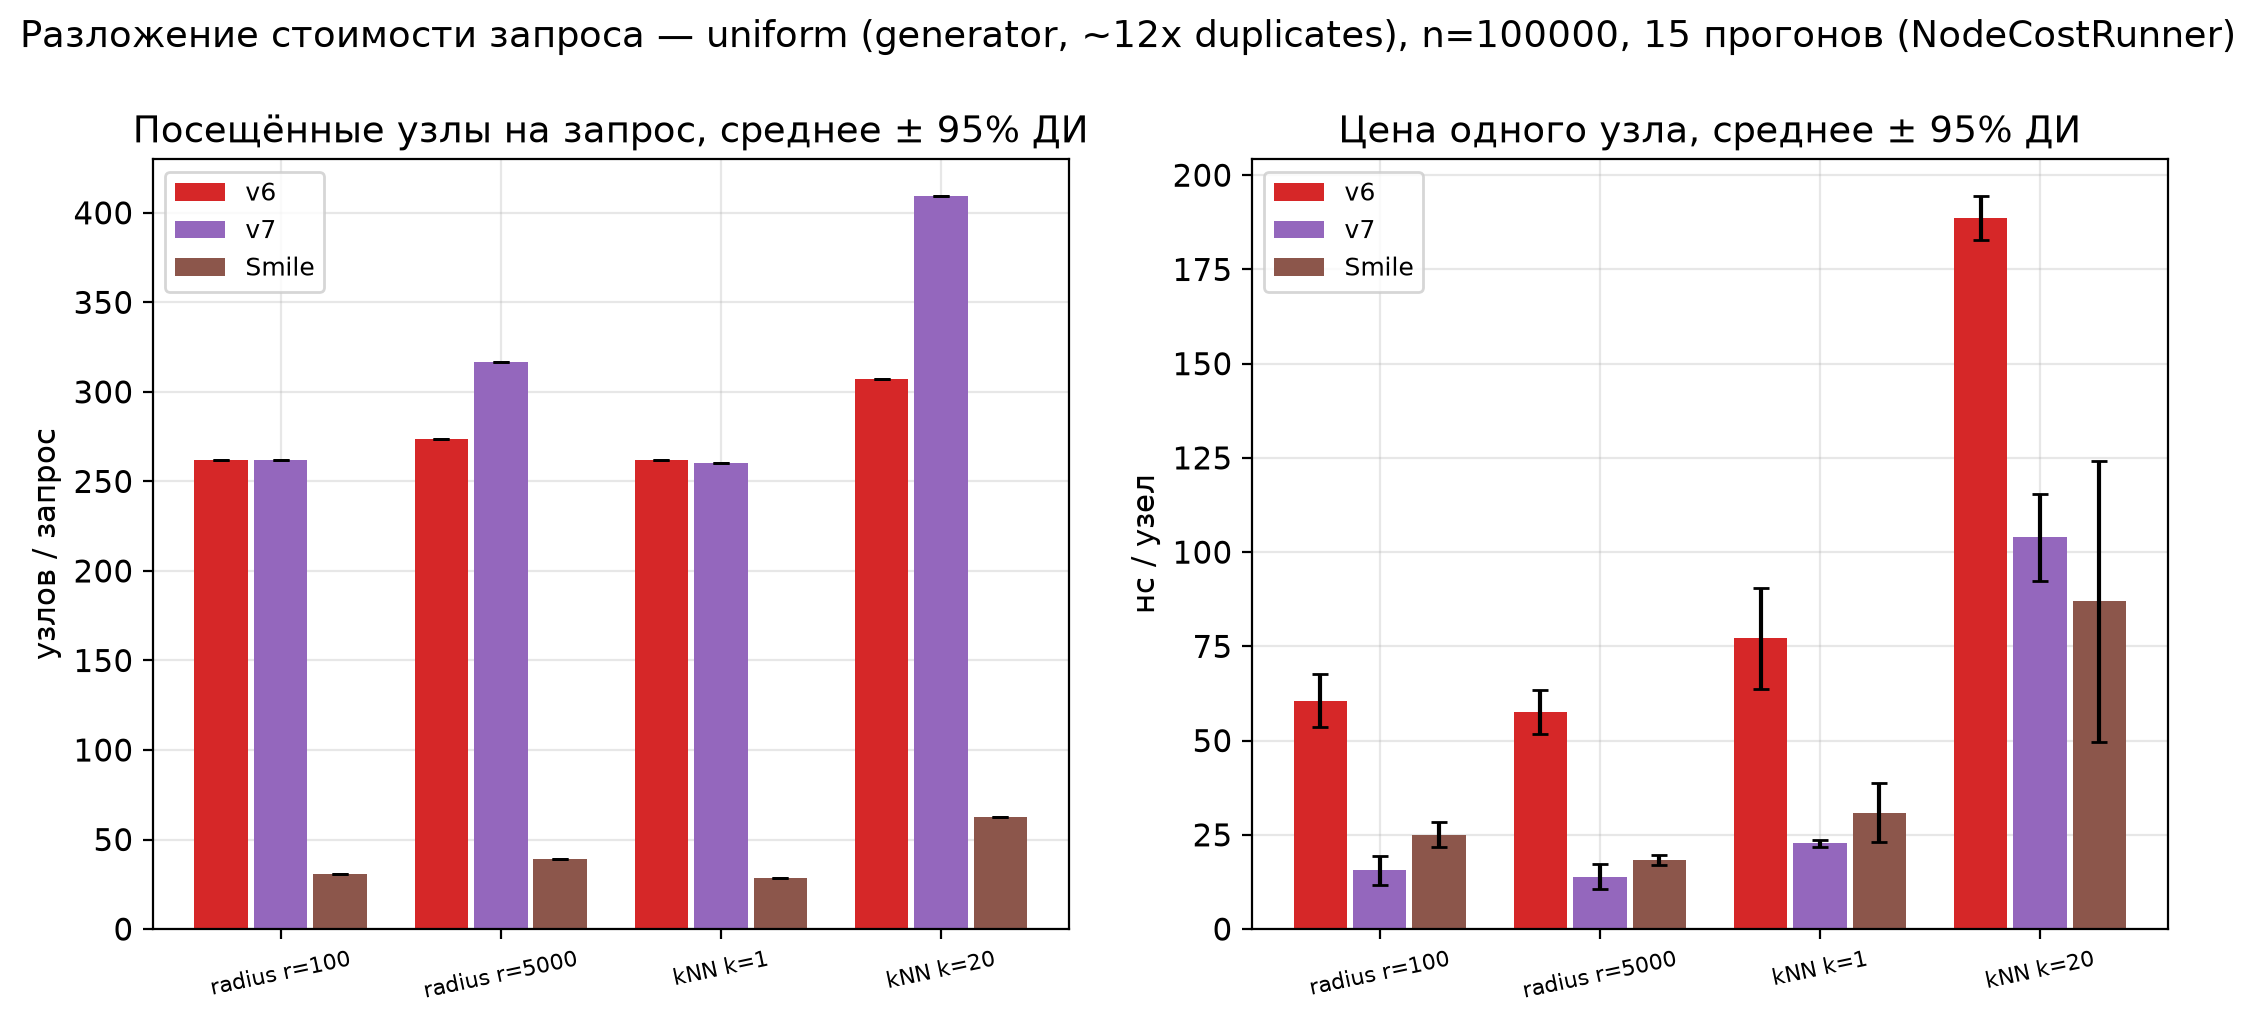
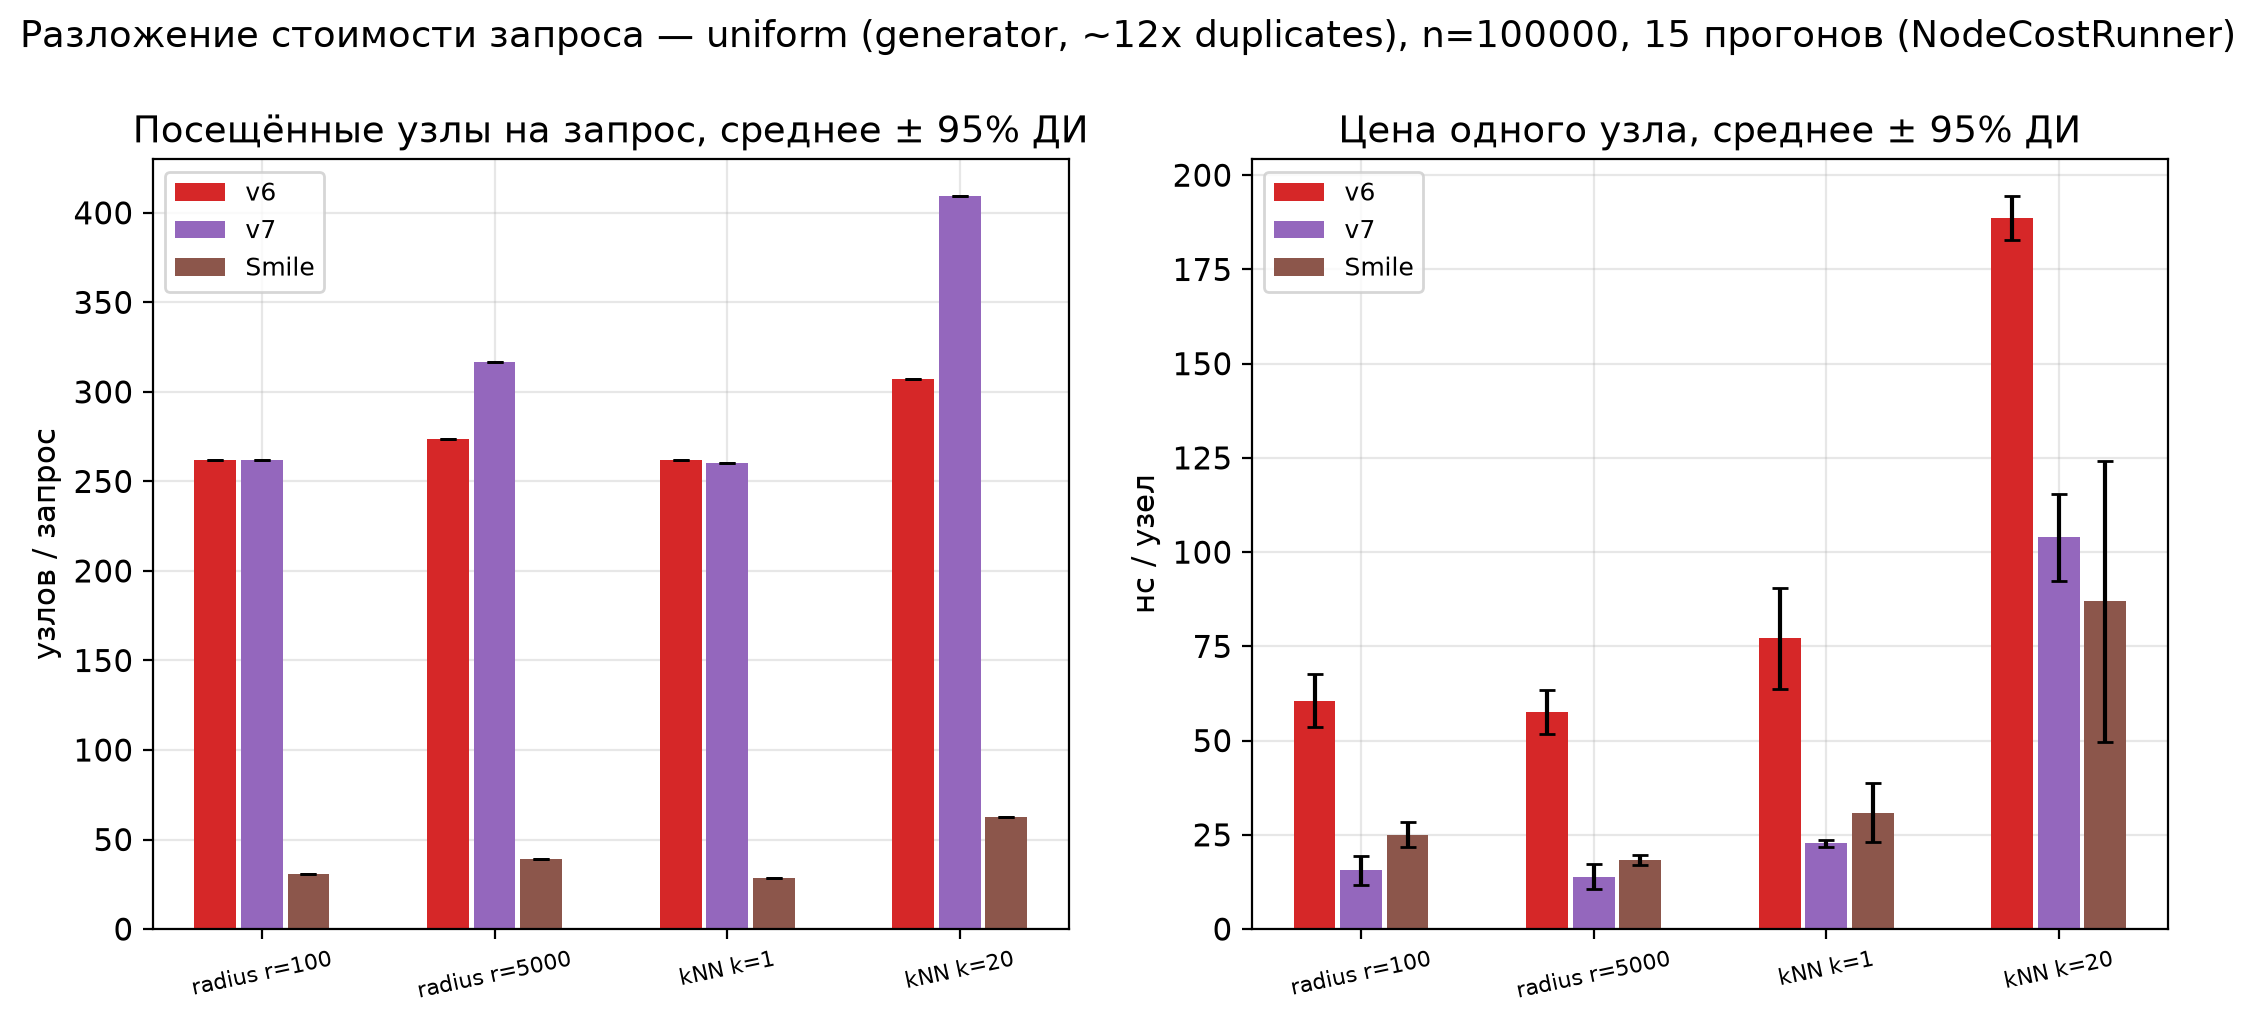
docs: h3 iteration two results

diff --git a/lab-1-java-geo-kdtree/tools/make_ecef_charts.py b/lab-1-java-geo-kdtree/tools/make_ecef_charts.py
@@ -171,15 +171,19 @@ def chart_nodecost():
         width = 0.2
 
         fig, axes = plt.subplots(1, 2, figsize=(13, 5))
+        present = [i for i in IMPLS if (dataset, queries[0], i.lower()) in groups]
+        slot = {impl: i for i, impl in enumerate(present)}
         for ax, metric, ylabel, title in (
             (axes[0], "nodes", "узлов / запрос", "Посещённые узлы на запрос, среднее ± 95% ДИ"),
             (axes[1], "nsnode", "нс / узел", "Цена одного узла, среднее ± 95% ДИ"),
         ):
-            for i, impl in enumerate(IMPLS):
+            for impl in present:
                 col = impl.lower()
                 vals = [groups[(dataset, q, col)][metric][0] for q in queries]
                 errs = [groups[(dataset, q, col)][metric][1] for q in queries]
-                ax.bar([p + (i - 1) * width for p in x], vals, width=width * 0.9,
+                i = slot[impl]
+                ax.bar([p + (i - (len(present) - 1) / 2.0) * width for p in x], vals,
+                       width=width * 0.9,
                        yerr=errs, capsize=3, label=impl, color=IMPL_COLORS[impl])
             ax.set_xticks(x)
             ax.set_xticklabels(queries, fontsize=8, rotation=12)
@@ -233,11 +237,12 @@ def chart_realdata():
                 if q not in queries:
                     queries.append(q)
         x = list(range(len(queries)))
-        width = 0.27
+        present = [i for i in IMPLS if (full_ds, queries[0], i.lower()) in groups]
+        width = 0.8 / max(len(present), 1)
         fig, ax = plt.subplots(figsize=(9, 5.5))
         all_means = []
         bar_data = []
-        for i, impl in enumerate(IMPLS):
+        for i, impl in enumerate(present):
             col = impl.lower()
             vals = []
             errs = []
@@ -251,7 +256,8 @@ def chart_realdata():
         # log-scale bars cannot start at 0; start slightly below the smallest mean
         bottom = max(min(all_means) * 0.3, 1e-3)
         for i, (impl, vals, errs) in enumerate(bar_data):
-            ax.bar([p + (i - 1) * width for p in x], [v - bottom for v in vals],
+            ax.bar([p + (i - (len(bar_data) - 1) / 2.0) * width for p in x],
+                   [v - bottom for v in vals],
                    bottom=bottom, width=width * 0.9,
                    yerr=errs, capsize=3, label=impl, color=IMPL_COLORS[impl])
         ax.set_yscale("log")
